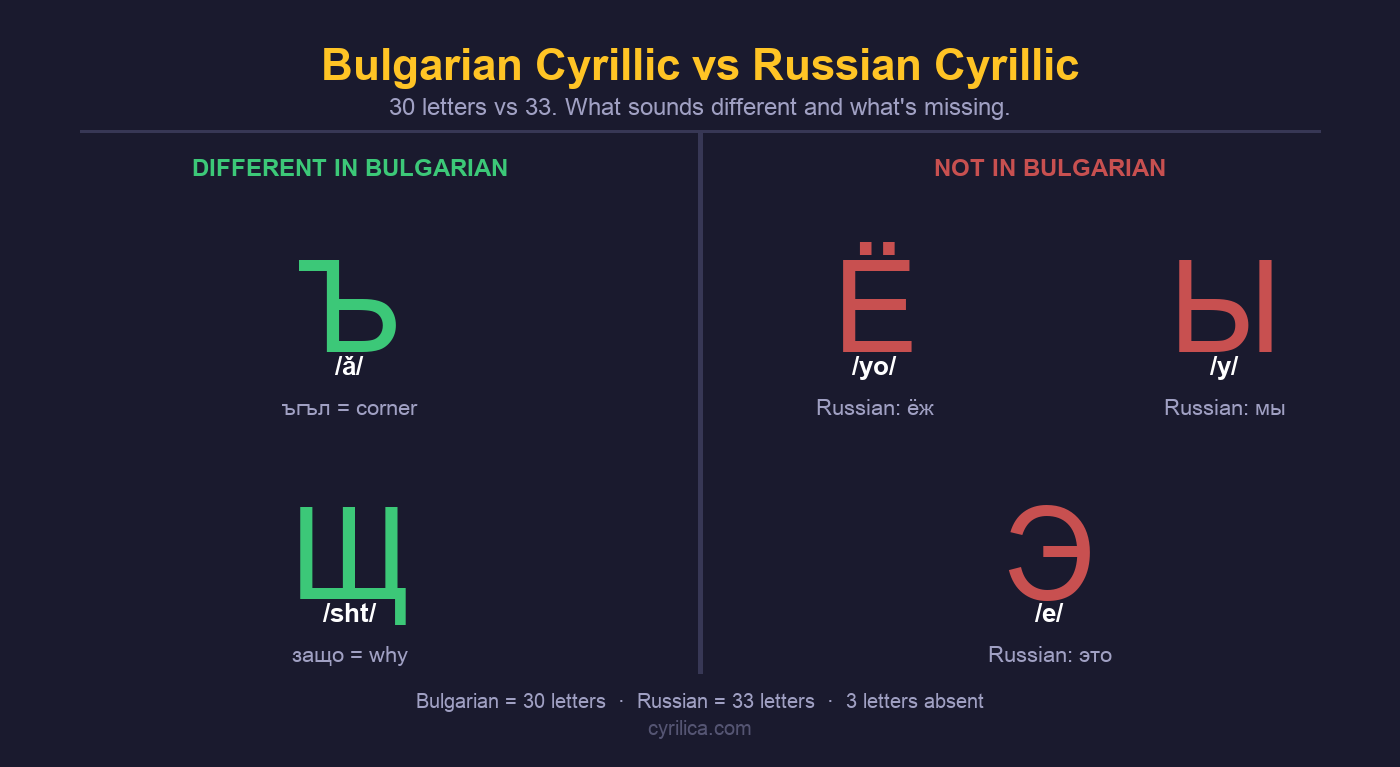
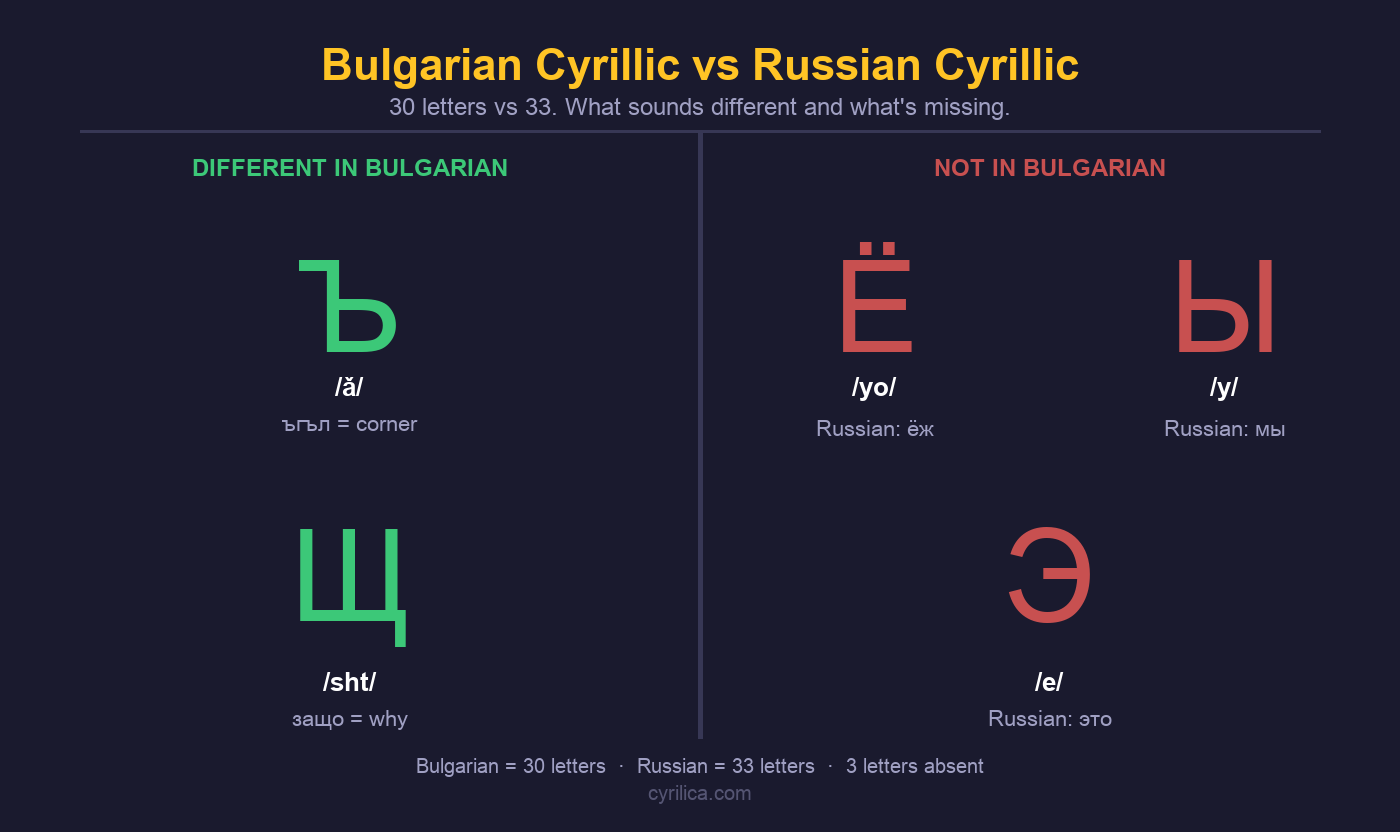
fix(images): match the Bulgarian image's letter spacing to the Ukrainian image
The sound labels sat almost on top of the letters. /ă/ cleared Ъ by 5px and
/sht/ was drawn 21px inside Щ's descender legs, while the Ukrainian image
holds a clean 24 to 26px under every letter.

Both scripts positioned a cell as a fixed chain, with LETTER_H measured once
from a sample glyph and reused for every letter. Two things followed from
that. Ukrainian sampled Ґ, whose upper-left flag puts its ink height at 113,
while Bulgarian sampled the flat-topped Ъ at 92, so Bulgarian started 21px
short for every cell. And because no letter's own ink was ever measured, Щ's
26px descender was not accounted for at all. Ukrainian escapes the second
problem only because none of the three Cyrillic capitals that descend in this
font (Д, Ц, Щ) appears in it.

Spacing is now measured ink to ink. A row's labels share one line and its
examples share another, both set below the deepest ink in that row, so a
descending letter cannot reach its neighbour's label and every label in a row
stays level. The four gap constants are the medians measured off
ukrainian-vs-russian-alphabet.png.

Measured on the rendered PNG, letter ink bottom to label ink top, at 2x:

  before   Ъ 5    Ё 5    Ы 5    Щ -21   Э 3     (negative means overlap)
  after    Ъ 26   Ё 26   Ы 26   Щ 26    Э 50
  target   Ukrainian min 24, median 26

Label ink bottom to example ink top:

  before   Ъ 30   Ё 20   Ы 20   Щ 25    Э 25
  after    Ъ 25   Ё 20   Ы 20   Щ 20    Э 20
  target   Ukrainian min 19, median 20
[…]

diff --git a/js/core.js b/js/core.js
@@ -439,7 +439,7 @@ const ARTICLE_META = {
     // Alphabet Variants
     'ukrainian-alphabet':       { section: 'Alphabet Variants',         published: '2026-05-23', modified: '2026-09-25', keywords: ['ukrainian alphabet', 'ukrainian cyrillic', 'ukrainian letters', 'cyrillic vs russian', 'ukrainian language', 'Ґ Є І Ї letters', 'learn ukrainian script'] },
     'belarusian-alphabet':      { section: 'Alphabet Variants',         published: '2026-02-22', modified: '2026-09-17', keywords: ['belarusian alphabet', 'belarusian cyrillic', '32 letters', 'eastern europe'] },
-    'bulgarian-alphabet':       { section: 'Alphabet Variants',         published: '2026-05-23', modified: '2026-09-25', keywords: ['bulgarian alphabet', 'bulgarian cyrillic', '30 letters', 'cyrillic origin', 'bulgarian letters', 'learn bulgarian'] },
+    'bulgarian-alphabet':       { section: 'Alphabet Variants',         published: '2026-05-23', modified: '2026-09-28', keywords: ['bulgarian alphabet', 'bulgarian cyrillic', '30 letters', 'cyrillic origin', 'bulgarian letters', 'learn bulgarian'] },
     'montenegrin-alphabet':     { section: 'Alphabet Variants',         published: '2026-02-22', modified: '2026-09-18', keywords: ['montenegrin alphabet', 'newest cyrillic', 'montenegrin language', 'balkan alphabet'] },
     'cyrillic-letters-not-in-russian': { section: 'Alphabet Variants',         published: '2026-06-21', modified: '2026-09-20', keywords: ['cyrillic letters not in russian', 'non-russian cyrillic', 'ukrainian serbian macedonian letters', 'cyrillic alphabet differences'] },
     'serbian-cyrillic-vs-latin':{ section: 'Alphabet Variants',         published: '2026-02-24', modified: '2026-09-25', keywords: ['serbian cyrillic', 'serbian latin', 'digraphia', 'dual script'] },

diff --git a/js/articles.js b/js/articles.js
@@ -1167,7 +1167,7 @@ const ARTICLES = [
             <p>So what does modern Bulgarian Cyrillic look like, and how does it differ from Russian?</p>
 
             <figure class="article-image">
-                <img src="/images/bulgarian-vs-russian-alphabet.png" alt="Bulgarian vs Russian Cyrillic alphabet comparison: Bulgarian has 30 letters, uses Ъ as a real vowel and Щ sounds like sht, while Russian letters Ё Ы Э are absent from Bulgarian" loading="lazy" width="1400" height="767" style="max-width: 600px;">
+                <img src="/images/bulgarian-vs-russian-alphabet.png" alt="Bulgarian vs Russian Cyrillic alphabet comparison: Bulgarian has 30 letters, uses Ъ as a real vowel and Щ sounds like sht, while Russian letters Ё Ы Э are absent from Bulgarian" loading="lazy" width="1400" height="832" style="max-width: 600px;">
                 <figcaption>The key differences between Bulgarian and Russian Cyrillic at a glance.</figcaption>
             </figure>
 

diff --git a/scripts/images/make_bulgarian_image.py b/scripts/images/make_bulgarian_image.py
@@ -50,13 +50,46 @@ def text_h(text, font):
     bb = _d.textbbox((0, 0), text, font=font)
     return bb[3] - bb[1]
 
-LETTER_H  = text_h("Ъ", font_letter)
-SOUND_H   = text_h("/g/", font_sound)
-EXAMPLE_H = text_h("test", font_example)
-GAP_LS    = 22 * SCALE
-GAP_SE    = 8 * SCALE
+def ink(text, font):
+    """Where a string's actual ink starts and ends, relative to its draw point."""
+    bb = _d.textbbox((0, 0), text, font=font)
+    return bb[1], bb[3]
 
-CELL_CONTENT_H = LETTER_H + GAP_LS + SOUND_H + GAP_SE + EXAMPLE_H
+# Spacing is measured ink to ink, not from a fixed sample glyph, so a letter with
+# a descender (Щ) clears its label by the same amount as one without (Ъ). The four
+# values are the medians measured off ukrainian-vs-russian-alphabet.png.
+GAP_LS_INK   = round(12.5 * SCALE)  # glyph ink bottom   -> label ink top
+GAP_SE_INK   = round(9.5 * SCALE)   # label ink bottom   -> example ink top
+ROW_GAP_INK  = round(45.5 * SCALE)  # example ink bottom -> next row's glyph ink top
+NOTE_GAP_INK = 14 * SCALE           # example ink bottom -> note ink top
+
+ROW_0 = [left[0], right_row0[0], right_row0[1]]
+ROW_1 = [left[1], right_row1]
+
+def row_lines(cells):
+    """One shared label line and one shared example line for a whole row.
+
+    Both are set by the deepest ink in the row, so a descending letter cannot
+    reach its neighbour's label and every label in the row stays level.
+    """
+    label_top   = max(ink(c[0], font_letter)[1] for c in cells) + GAP_LS_INK
+    label_h     = max(ink(c[1], font_sound)[1] - ink(c[1], font_sound)[0] for c in cells)
+    example_top = label_top + label_h + GAP_SE_INK
+    return label_top, example_top
+
+def cell_offsets(letter, sound, example, lines):
+    """Draw-point offsets inside one cell, plus the cell's own ink bottom."""
+    label_top, example_top = lines
+    snd_top, _      = ink(sound,   font_sound)
+    ex_top,  ex_bot = ink(example, font_example)
+    return label_top - snd_top, example_top - ex_top, example_top - ex_top + ex_bot
+
+LINES_0 = row_lines(ROW_0)
+LINES_1 = row_lines(ROW_1)
+
+row_0_ink_bottom = max(cell_offsets(*c, LINES_0)[2] for c in ROW_0)
+row_1_ink_bottom = max(cell_offsets(*c, LINES_1)[2] for c in ROW_1)
+row_1_ink_top    = min(ink(c[0], font_letter)[0] for c in ROW_1)
 
 # ── vertical layout ────────────────────────────────────────────────
 TITLE_Y   = 20 * SCALE
@@ -67,12 +100,12 @@ HDR_DIV_Y = SUB_Y + sub_h + 10 * SCALE
 COL_HDR_Y = HDR_DIV_Y + 12 * SCALE
 col_hdr_h = text_h("ONLY", font_col_hdr)
 
-ROW_PAD_TOP   = 22 * SCALE
-ROW_INNER_GAP = 28 * SCALE
+ROW_PAD_TOP = 22 * SCALE
 ROW_0_Y = COL_HDR_Y + col_hdr_h + ROW_PAD_TOP
-ROW_1_Y = ROW_0_Y + CELL_CONTENT_H + ROW_INNER_GAP
+ROW_1_Y = ROW_0_Y + row_0_ink_bottom + ROW_GAP_INK - row_1_ink_top
 
-NOTE_Y = ROW_1_Y + CELL_CONTENT_H + 18 * SCALE
+note = "Bulgarian = 30 letters  ·  Russian = 33 letters  ·  3 letters absent"
+NOTE_Y = ROW_1_Y + row_1_ink_bottom + NOTE_GAP_INK - ink(note, font_note)[0]
 WM_Y   = NOTE_Y  + text_h("note", font_note) + 6 * SCALE
 H      = WM_Y    + text_h("cyrilica.com", font_wm) + 16 * SCALE
 
@@ -100,26 +133,26 @@ draw.text((cx("DIFFERENT IN BULGARIAN", font_col_hdr, W // 4),     COL_HDR_Y),
 draw.text((cx("NOT IN BULGARIAN",    font_col_hdr, 3 * W // 4), COL_HDR_Y),
           "NOT IN BULGARIAN",    font=font_col_hdr, fill=RU_COL)
 
-def draw_cell(letter, sound, example, x_center, row_y, letter_col):
+def draw_cell(letter, sound, example, x_center, row_y, letter_col, lines):
+    sound_dy, example_dy, _ = cell_offsets(letter, sound, example, lines)
     draw.text((cx(letter,  font_letter,  x_center), row_y),
               letter, font=font_letter, fill=letter_col)
-    draw.text((cx(sound,   font_sound,   x_center), row_y + LETTER_H + GAP_LS),
+    draw.text((cx(sound,   font_sound,   x_center), row_y + sound_dy),
               sound, font=font_sound, fill=WHITE)
-    draw.text((cx(example, font_example, x_center), row_y + LETTER_H + GAP_LS + SOUND_H + GAP_SE),
+    draw.text((cx(example, font_example, x_center), row_y + example_dy),
               example, font=font_example, fill=SUBTEXT)
 
 # Left: 2-row single column at W//4
-draw_cell(*left[0], W // 4, ROW_0_Y, BG_COL)
-draw_cell(*left[1], W // 4, ROW_1_Y, BG_COL)
+draw_cell(*left[0], W // 4, ROW_0_Y, BG_COL, LINES_0)
+draw_cell(*left[1], W // 4, ROW_1_Y, BG_COL, LINES_1)
 
 # Right row 0: Ё and Ы at 5W//8 and 7W//8
-draw_cell(*right_row0[0], 5 * W // 8, ROW_0_Y, RU_COL)
-draw_cell(*right_row0[1], 7 * W // 8, ROW_0_Y, RU_COL)
+draw_cell(*right_row0[0], 5 * W // 8, ROW_0_Y, RU_COL, LINES_0)
+draw_cell(*right_row0[1], 7 * W // 8, ROW_0_Y, RU_COL, LINES_0)
 
 # Right row 1: Э centered in right half
-draw_cell(*right_row1, 3 * W // 4, ROW_1_Y, RU_COL)
+draw_cell(*right_row1, 3 * W // 4, ROW_1_Y, RU_COL, LINES_1)
 
-note = "Bulgarian = 30 letters  ·  Russian = 33 letters  ·  3 letters absent"
 draw.text((cx(note, font_note, W // 2), NOTE_Y), note, font=font_note, fill=SUBTEXT)
 draw.text((cx("cyrilica.com", font_wm, W // 2), WM_Y), "cyrilica.com", font=font_wm, fill=WATERMARK)
 
